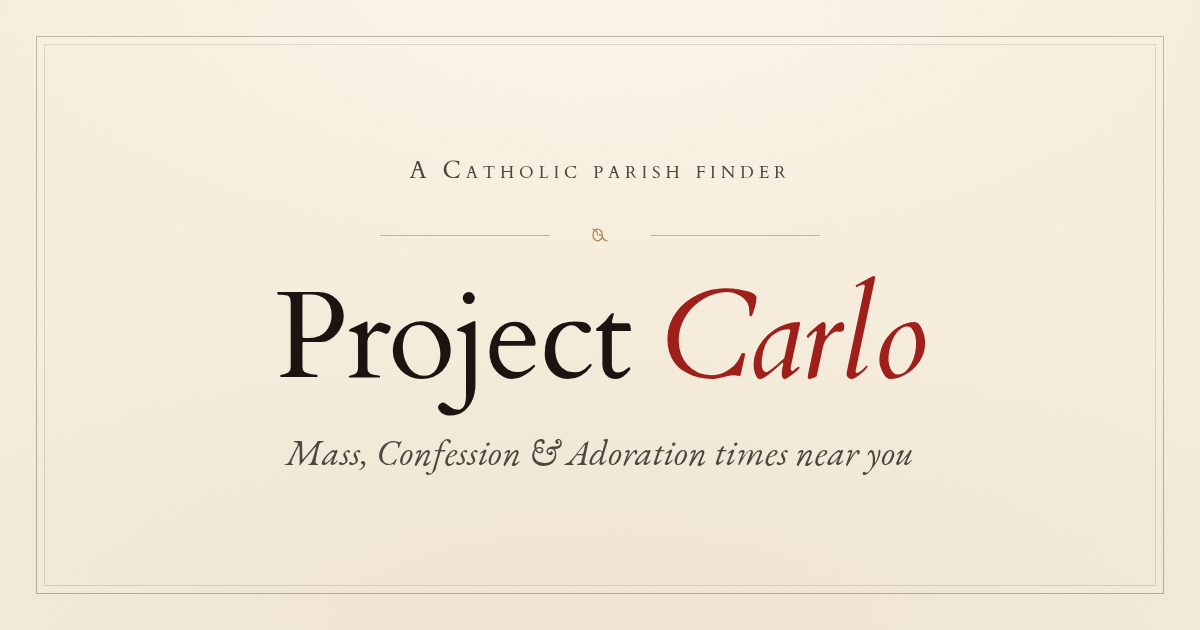
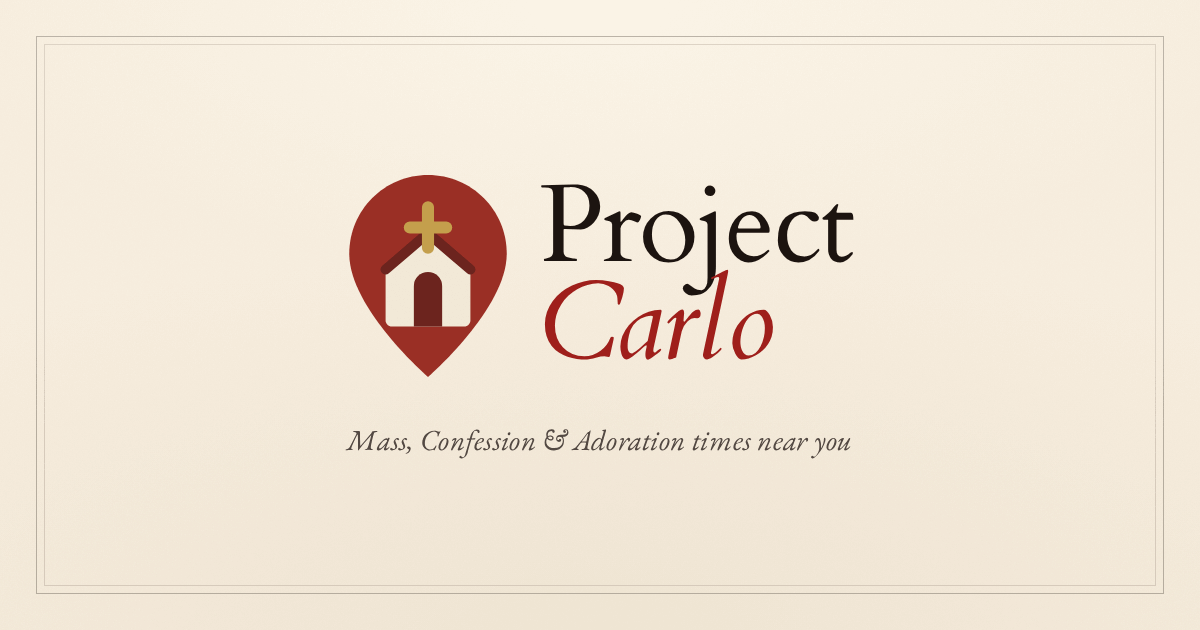
Share image: keep the brand inside Google's square thumbnail crop
Google Search shows og-default.png as a centred square thumbnail, which
cut the ends off "Project Carlo". The layout now puts the pin mark beside
a stacked title, all inside the centre square, and drops the small-caps
line that was unreadable at thumbnail size.

Changed region(s): [[0.2158, 0.2413, 0.7708, 0.6635], [0.2467, 0.6635, 0.7708, 0.754], [0.555, 0.2714, 0.6475, 0.3016]]

diff --git a/apps/web/scripts/og-template.html b/apps/web/scripts/og-template.html
@@ -53,7 +53,9 @@
     </style>
   </head>
   <body>
-    <!-- Option 01 — Missal title page (docs/share-image-options.html) -->
+    <!-- Google Search crops this image to a centred square (x 285-915) for
+         its result thumbnails, so everything that matters stays inside it.
+         The pin is the brand mark from public/favicon.svg, without its tile. -->
     <div
       id="og-frame"
       class="grain"
@@ -101,92 +103,63 @@
           display: flex;
           flex-direction: column;
           align-items: center;
-          text-align: center;
-          gap: 34px;
-          padding: 0 90px;
+          gap: 40px;
         "
       >
-        <div
-          style="
-            font-family: Cardo, Georgia, serif;
-            font-variant-caps: small-caps;
-            font-feature-settings: 'smcp' 1, 'c2sc' 0;
-            letter-spacing: 0.2em;
-            font-size: 24px;
-            color: oklch(0.4 0.018 50);
-          "
-        >
-          A Catholic parish finder
-        </div>
-        <div
-          style="
-            display: flex;
-            align-items: center;
-            gap: 22px;
-            color: oklch(0.66 0.095 75);
-            width: 440px;
-          "
-        >
-          <span
-            style="
-              height: 1px;
-              flex: 1;
-              background: color-mix(
-                in oklch,
-                oklch(0.2 0.015 50) 26%,
-                transparent
-              );
-            "
-          ></span>
+        <div style="display: flex; align-items: center; gap: 30px">
           <svg
-            width="56"
-            height="28"
-            viewBox="0 0 48 24"
-            fill="none"
-            stroke="currentColor"
-            stroke-width="1.1"
-            stroke-linecap="round"
-            stroke-linejoin="round"
+            width="162"
+            height="210"
+            viewBox="12 6 40 52"
+            aria-hidden="true"
           >
             <path
-              d="M18 12c0-3 2-5 4-5s4 2 4 5-2 5-4 5-4-2-4-5Z"
-            ></path>
-            <path d="M22 12c0-3-2-5-4-5"></path>
-            <path d="M26 12c0 3 2 5 4 5"></path>
-            <circle cx="24" cy="12" r="0.9" fill="currentColor" stroke="none"></circle>
+              fill="#9B2F25"
+              d="M32 7c-10.8 0-19.5 8.7-19.5 19.5C12.5 40.1 32 57 32 57s19.5-16.9 19.5-30.5C51.5 15.7 42.8 7 32 7Z"
+            />
+            <path
+              fill="#F3ECD8"
+              d="m21.5 30.4 10.5-9 10.5 9V43c0 .8-.7 1.5-1.5 1.5H23c-.8 0-1.5-.7-1.5-1.5V30.4Z"
+            />
+            <path
+              fill="none"
+              stroke="#6D241E"
+              stroke-linecap="round"
+              stroke-linejoin="round"
+              stroke-width="2.5"
+              d="m21.5 30.4 10.5-9 10.5 9"
+            />
+            <path fill="#6D241E" d="M28.5 34.5a3.5 3.5 0 0 1 7 0v10h-7v-10Z" />
+            <path
+              fill="none"
+              stroke="#C6A04D"
+              stroke-linecap="round"
+              stroke-linejoin="round"
+              stroke-width="3"
+              d="M32 15v10M27.5 20H36.5"
+            />
           </svg>
-          <span
+          <h2
             style="
-              height: 1px;
-              flex: 1;
-              background: color-mix(
-                in oklch,
-                oklch(0.2 0.015 50) 26%,
-                transparent
-              );
+              font-family: Cardo, Georgia, serif;
+              font-weight: 400;
+              font-size: 110px;
+              line-height: 0.88;
+              letter-spacing: -0.02em;
+              color: oklch(0.2 0.015 50);
+              margin: 0;
             "
-          ></span>
+          >
+            Project<br />
+            <span style="font-style: italic; color: oklch(0.46 0.165 28)">Carlo</span>
+          </h2>
         </div>
-        <h2
-          style="
-            font-family: Cardo, Georgia, serif;
-            font-weight: 400;
-            font-size: 124px;
-            line-height: 0.9;
-            letter-spacing: -0.02em;
-            color: oklch(0.2 0.015 50);
-            margin: 0;
-          "
-        >
-          Project
-          <span style="font-style: italic; color: oklch(0.46 0.165 28)">Carlo</span>
-        </h2>
         <div
           style="
             font-family: 'EB Garamond', Georgia, serif;
             font-style: italic;
             letter-spacing: 0.01em;
-            font-size: 36px;
+            font-size: 29px;
             color: oklch(0.4 0.018 50);
           "
         >

diff --git a/apps/web/scripts/generate-og.ts b/apps/web/scripts/generate-og.ts
@@ -6,8 +6,9 @@
  * and commit the output. Re-run with `pnpm --filter web og:gen` when the brand
  * mark or palette changes.
  *
- * OG layout: Option 01 "Missal title page" from docs/share-image-options.html.
- * Rendered via headless Chromium (Playwright) so oklch colors, Cardo small-caps,
+ * OG layout: Option 01 "Missal title page" from docs/share-image-options.html,
+ * with the brand mark beside a stacked title so it survives Google Search's
+ * centred-square thumbnail crop (see og-template.html). Rendered via headless Chromium (Playwright) so oklch colors, Cardo small-caps,
  * and paper grain match the design reference — sharp/librsvg cannot reproduce those.
  * Requires Playwright's Chromium: `pnpm --filter web test:e2e:install`.
  *
